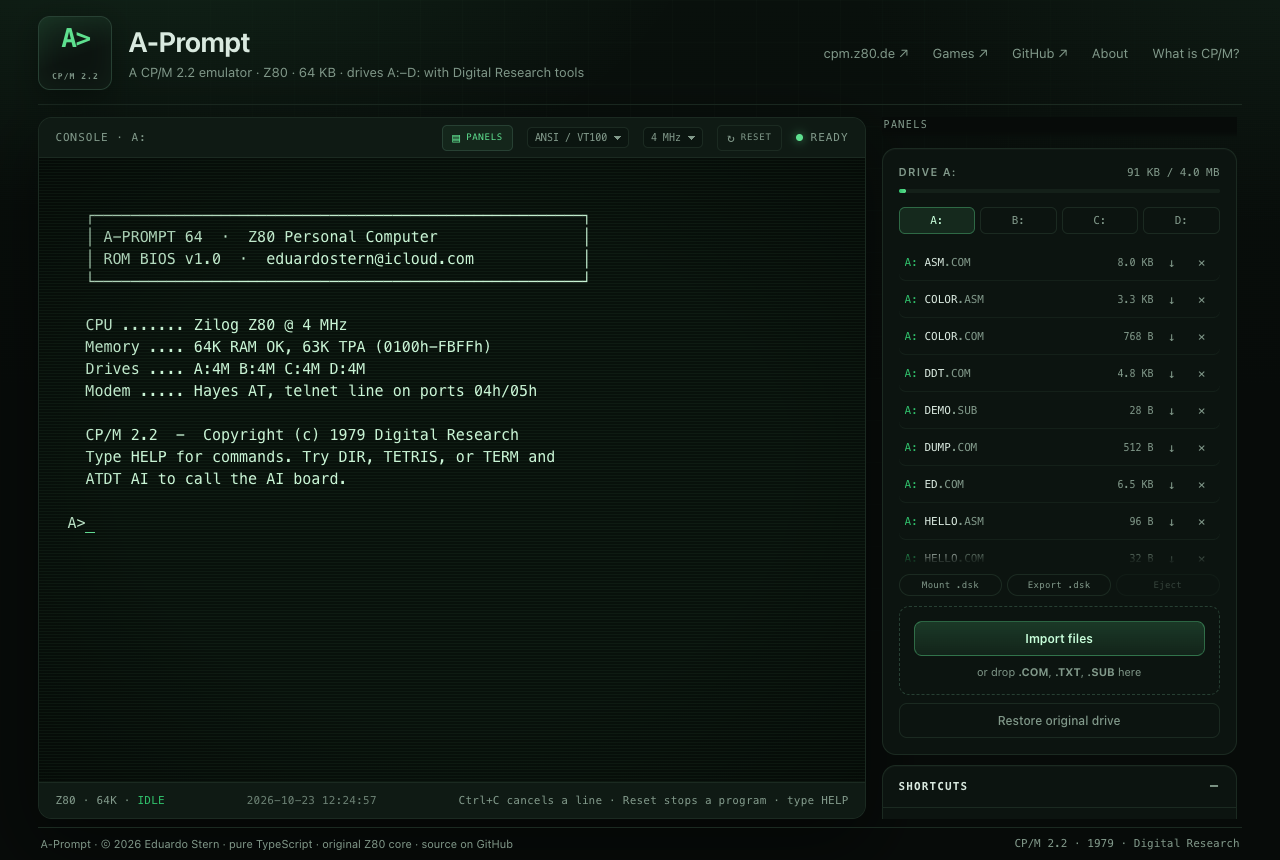
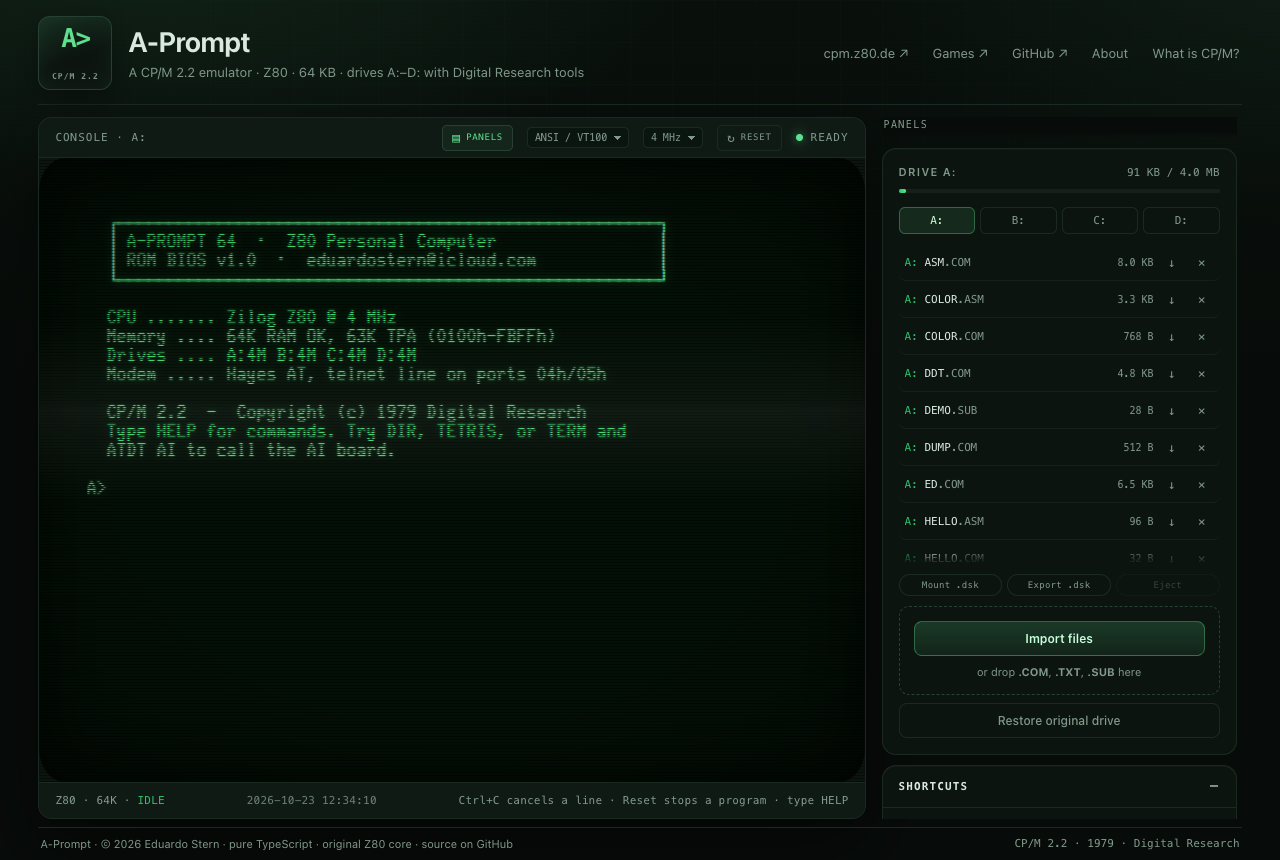
feat: the site opens on the green CRT
First visits now get the Green CRT preset (Glass TTY VT220, P1 phosphor,
heavy scanlines, glow, flicker, curved glass, NTSC). The old look stays
one click away as the Modern preset, and saved choices are kept. The
README screenshot shows the new default.

Changed region(s): [[0.0625, 0.3628, 0.5, 0.5744], [0.0625, 0.2419, 0.5312, 0.3326]]

diff --git a/tests/display.test.ts b/tests/display.test.ts
@@ -1,7 +1,11 @@
 import { describe, expect, it } from 'vitest';
-import { DEFAULT_DISPLAY, PRESETS, fontSize, mix, parseDisplay, terminalTheme } from '../src/display';
+import { DEFAULT_DISPLAY, MODERN_DISPLAY, PRESETS, fontSize, mix, parseDisplay, terminalTheme } from '../src/display';
 
 describe('display settings', () => {
+  it('a first visit gets the green CRT', () => {
+    expect(DEFAULT_DISPLAY).toEqual(PRESETS.green.settings);
+  });
+
   it('falls back to the default look for missing or broken storage', () => {
     expect(parseDisplay(null)).toEqual(DEFAULT_DISPLAY);
     expect(parseDisplay('{not json')).toEqual(DEFAULT_DISPLAY);
@@ -23,8 +27,9 @@ describe('display settings', () => {
   });
 
   it('auto size follows the font and the screen width', () => {
-    expect(fontSize(DEFAULT_DISPLAY, false)).toBe(15);
-    expect(fontSize(DEFAULT_DISPLAY, true)).toBe(12);
+    expect(fontSize(MODERN_DISPLAY, false)).toBe(15);
+    expect(fontSize(MODERN_DISPLAY, true)).toBe(12);
+    expect(fontSize(DEFAULT_DISPLAY, false)).toBe(20);
     expect(fontSize({ ...DEFAULT_DISPLAY, font: 'glass', size: 24 }, true)).toBe(24);
   });
 
@@ -41,7 +46,7 @@ describe('display settings', () => {
   });
 
   it('the colour look keeps the ANSI palette on the chosen background', () => {
-    const t = terminalTheme({ ...DEFAULT_DISPLAY, background: '#102030' });
+    const t = terminalTheme({ ...MODERN_DISPLAY, background: '#102030' });
     expect(t.red).not.toBe(t.blue);
     expect(t.background).toBe('#102030');
   });

diff --git a/src/display.ts b/src/display.ts
@@ -47,8 +47,8 @@ export const FONTS: Record<FontId, FontInfo> = {
 
 export const SIZES = [0, 12, 14, 15, 16, 18, 20, 22, 24, 28, 32];
 
-/** Today's look: nothing changes until the visitor asks. */
-export const DEFAULT_DISPLAY: DisplaySettings = {
+/** The clean look: modern font, ANSI colours, light scanlines. */
+export const MODERN_DISPLAY: DisplaySettings = {
   font: 'modern',
   size: 0,
   phosphor: 'color',
@@ -77,7 +77,7 @@ const PHOSPHOR_RGB: Record<Exclude<Phosphor, 'color'>, string> = {
 };
 
 export const PRESETS: Record<string, { label: string; settings: DisplaySettings }> = {
-  modern: { label: 'Modern', settings: DEFAULT_DISPLAY },
+  modern: { label: 'Modern', settings: MODERN_DISPLAY },
   green: {
     label: 'Green CRT',
     settings: {
@@ -107,6 +107,9 @@ export const PRESETS: Record<string, { label: string; settings: DisplaySettings 
     },
   },
 };
+
+/** What a first visit shows: the green CRT. */
+export const DEFAULT_DISPLAY: DisplaySettings = PRESETS.green.settings;
 
 const pick = <T extends string>(value: unknown, allowed: readonly T[], fallback: T): T =>
   allowed.includes(value as T) ? (value as T) : fallback;
